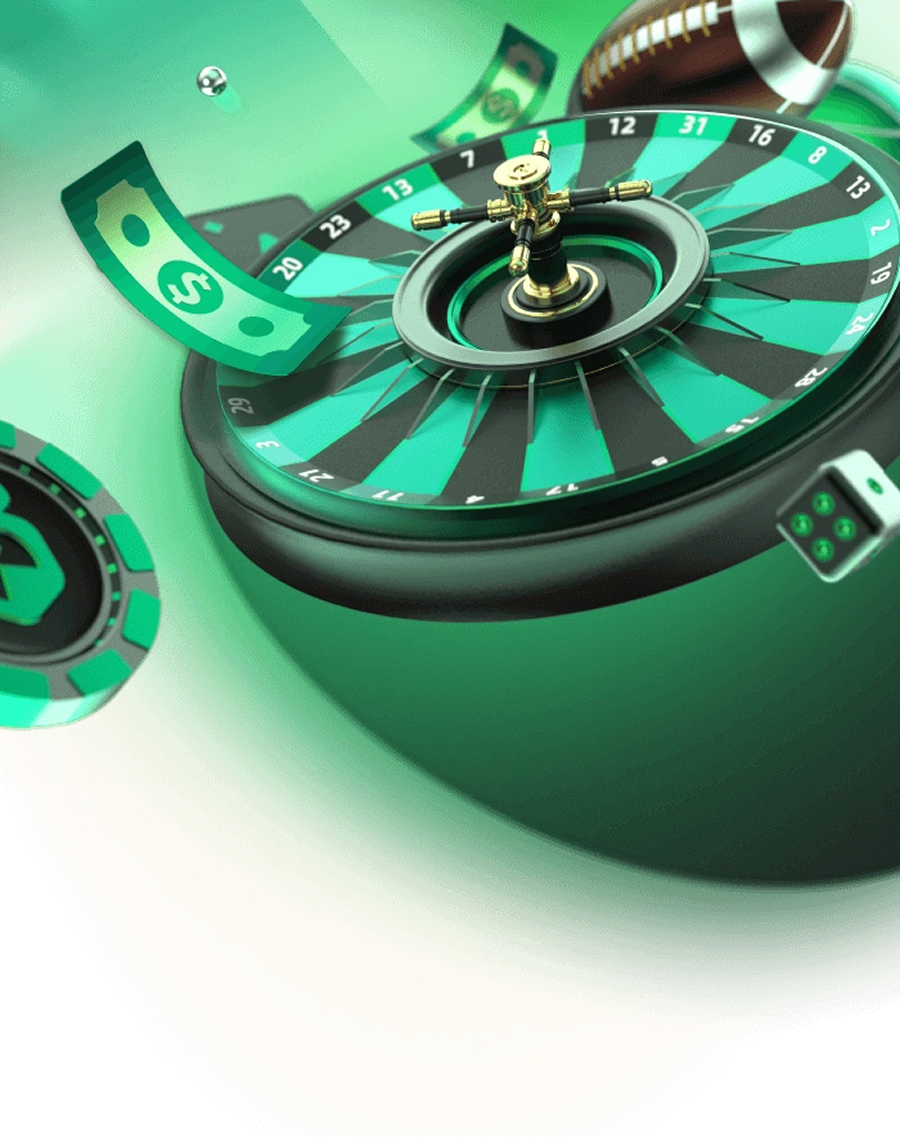
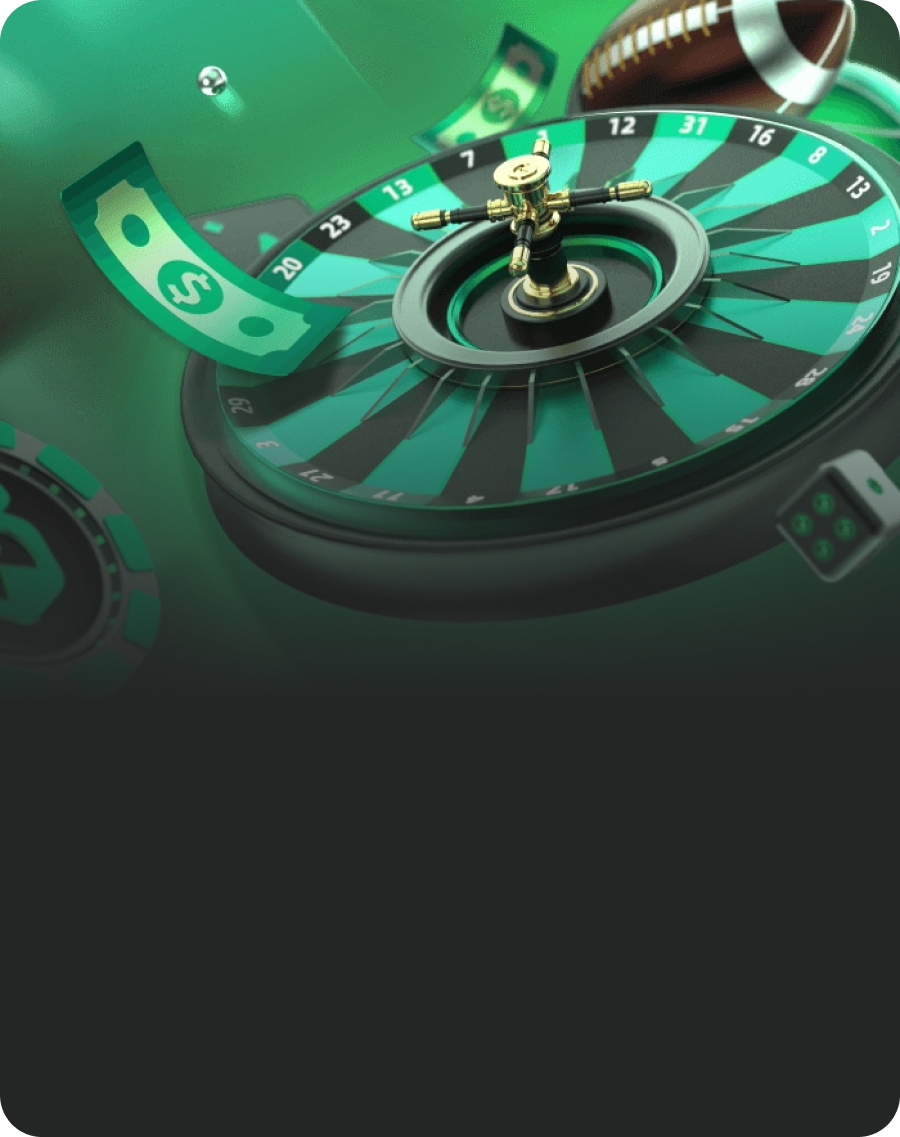
修改样式

diff --git a/src/components/activityPop.vue b/src/components/activityPop.vue
@@ -1,22 +1,41 @@
 <template>
-  <div class="fixed inset-0 z-[9999] flex flex-col items-center justify-center gap-4 bg-mask-60-1">
+  <div
+    class="fixed inset-0 z-[9999] flex flex-col items-center justify-center gap-4 bg-mask-60-1 cursor-pointer"
+    role="button"
+    tabindex="0"
+    aria-label="close"
+    @click="close"
+  >
     <div
-      class="activity-bg flex flex-col items-center justify-end gap-0.5 pb-3.5 w-[80%] max-w-full aspect-[750/1206] max-h-[101vw]"
+      class="activity-bg relative w-[80%] max-w-full cursor-default overflow-hidden rounded-xl"
+      role="presentation"
+      @click.stop
     >
-      <div class="title">NEW USER ONLY</div>
-      <div class="text-text-1">1st Deposit Bonus</div>
-      <div class="activityPop-num">+120%</div>
-      <div class="text-text-1 text-center">
-        <div class="text-base font-bold">Up to ₱58,584.36</div>
-        <div class="text-sm">in Casino or Sports</div>
+      <img :src="activityImg" alt="" class="block w-full h-auto" />
+      <div class="absolute inset-0 flex flex-col items-center justify-end gap-0.5 pb-3.5">
+        <div class="title">NEW USER ONLY</div>
+        <div class="text-text-1">1st Deposit Bonus</div>
+        <div class="activityPop-num">+120%</div>
+        <div class="text-text-1 text-center">
+          <div class="text-base font-bold">Up to ₱58,584.36</div>
+          <div class="text-sm">in Casino or Sports</div>
+        </div>
+        <button
+          type="button"
+          class="mt-5 w-[72%] h-10 flex items-center justify-center activity-but"
+        >
+          <span class="text-text-4 text-base font-bold">Deposit Now</span>
+        </button>
       </div>
-      <button type="button" class="mt-5 w-[72%] h-10 flex items-center justify-center activity-but">
-        <span class="text-text-4 text-base font-bold"> Deposit Now </span>
-      </button>
     </div>
   </div>
 </template>
-<script setup lang="ts"></script>
+<script setup lang="ts">
+import activityImg from '@/static/img/home/activityImg.png'
+
+const emit = defineEmits<{ close: [] }>()
+const close = () => emit('close')
+</script>
 <style scoped lang="scss">
 .title {
   color: var(--color-text-level-1);
@@ -35,13 +54,9 @@
   font-size: 68px;
   font-style: italic;
   font-weight: 900;
-  line-height: normal;
+  line-height: 68px;
 }
 .activity-bg {
-  background-image: url('@/static/img/home/activityImg.png');
-  background-size: contain;
-  background-position: top center;
-  background-repeat: no-repeat;
   background-color: #252626;
 }
 .activity-but {

diff --git a/index.html b/index.html
@@ -5,6 +5,14 @@
     <link rel="icon" type="image/svg+xml" href="/vite.svg" />
     <meta name="viewport" content="width=device-width, initial-scale=1.0" />
 
+    <!-- Inter 字体（含 italic 斜体） -->
+    <link rel="preconnect" href="https://fonts.googleapis.com" />
+    <link rel="preconnect" href="https://fonts.gstatic.com" crossorigin />
+    <link
+      href="https://fonts.googleapis.com/css2?family=Inter:ital,wght@0,400;0,700;0,900;1,400;1,700;1,900&display=swap"
+      rel="stylesheet"
+    />
+
     <!-- PWA Meta Tags -->
     <meta name="theme-color" content="#42b883" />
     <meta name="description" content="A Vue3 + TypeScript + Pinia + Tailwind CSS PWA Application" />

diff --git a/src/views/home/index.vue b/src/views/home/index.vue
@@ -276,7 +276,7 @@
     </div>
   </div>
   <NewEvent class="mt-2" />
-  <ActivityPop />
+  <ActivityPop v-if="showActivityPop" class="sm:hidden" @close="closeActivityPop" />
   <!-- 提示弹窗 -->
   <H5HomePop v-if="showH5HomePop" @close="closeH5HomePop" class="sm:hidden" />
   <!-- 注册弹窗 -->
@@ -345,6 +345,10 @@ const showLoginModal = ref(false)
 const showH5HomePop = ref(true)
 const closeH5HomePop = () => {
   showH5HomePop.value = false
+}
+const showActivityPop = ref(true)
+const closeActivityPop = () => {
+  showActivityPop.value = false
 }
 
 const listImg = computed(() => [
